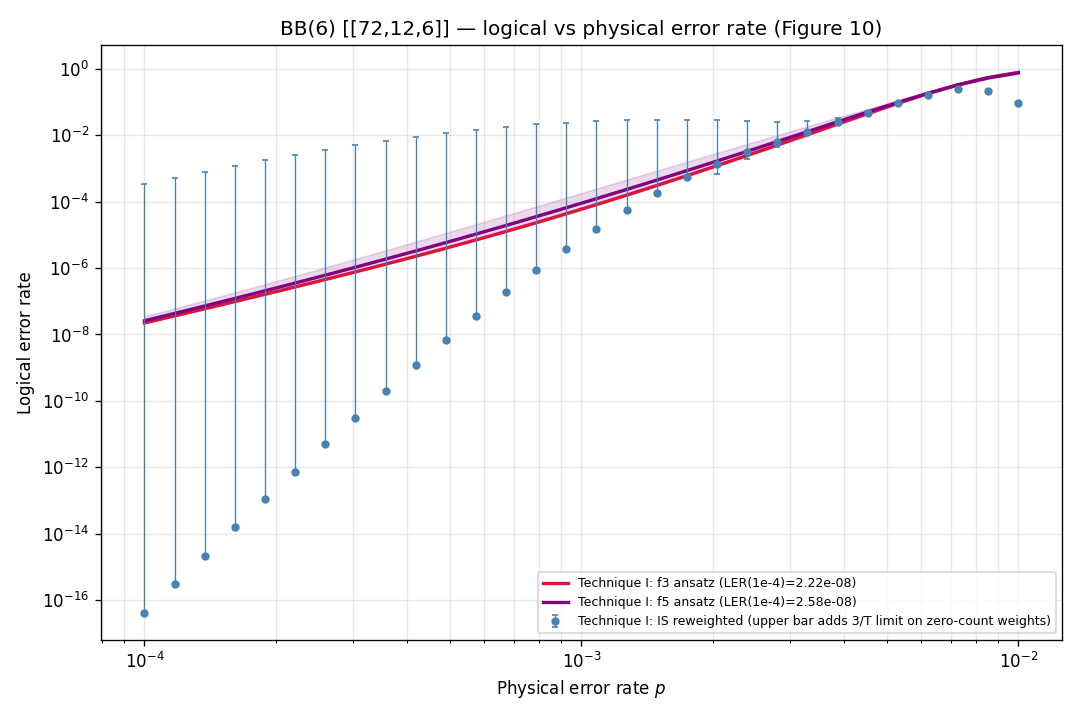
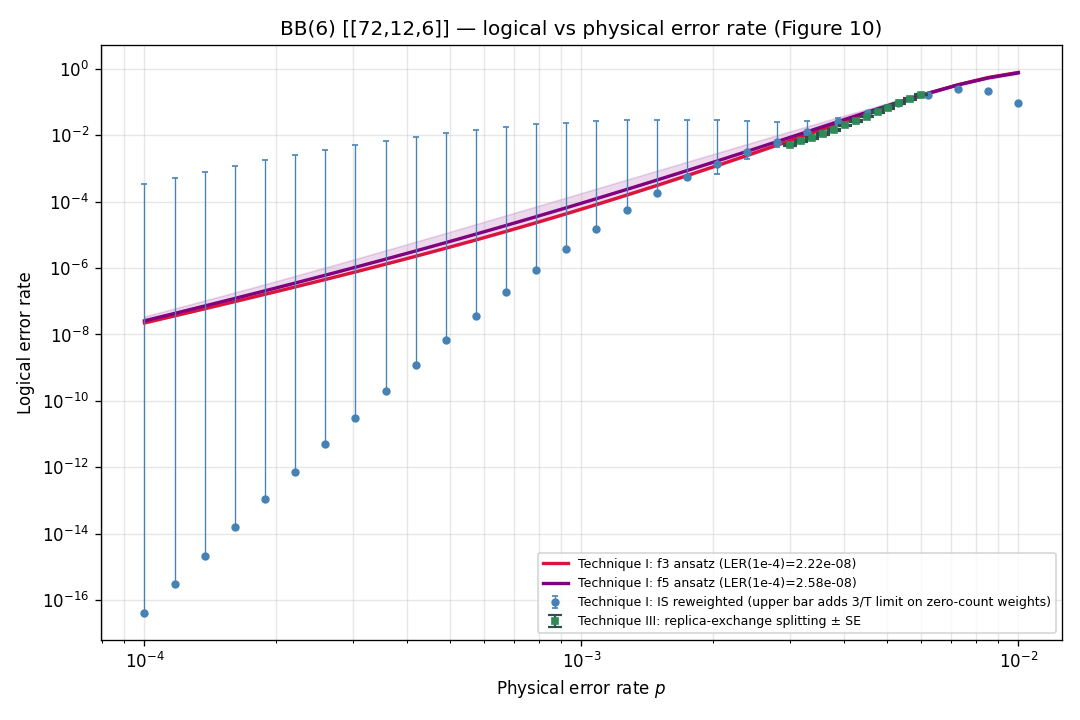
Add full-DEM Technique III (replica-exchange splitting); all 3 techniques agree
split_fulldem.py: the full-DEM analog of split_crosscheck.py -- runs the tempered
replica-exchange estimate on the full both-sector DEM near threshold (6e-3->3e-3, reduced
settings since full-DEM decodes are ~10-50x slower; this run took ~5h). Tempered-only (the
over/under bracket needs single-sector min-weight seeds and is just a mixing diagnostic).
Writes the {tempered, diagnostics} schema bb6_report consumes -- NOT the sweep's sequential
splitting (biased, wrong schema).

Result: the replica-exchange estimate tracks the exact-pinned full-DEM ansatz at ratio
0.73-1.07 across the near-threshold ladder; swap-accept 0.83-0.89, mean weight mixes
32.8->17.8 (heavier than single-sector's 22->13 since N is larger). So all three techniques
agree on the full DEM, mirroring the single-sector report.

bb6_report.py: splitting_comparison + fig_ler_vs_p now tolerate a splitting.json without the
over/under bracket (the band is optional). Notebook verified end-to-end (splitting cell renders).

diff --git a/notebooks/bb_code/split_fulldem.py b/notebooks/bb_code/split_fulldem.py
@@ -1,0 +1,47 @@
+"""Technique-III replica-exchange splitting on the FULL both-sector DEM (near-threshold cross-check).
+
+The full-DEM analog of split_crosscheck.py. Runs the **tempered** replica-exchange estimate only —
+the over/under sequential bracket needs single-sector min-weight seeds, and the tempered estimate is
+the accurate one anyway. Reduced settings: full-DEM decodes are ~10-50x slower than the single Z-sector,
+so this is a near-threshold (6e-3 -> 3e-3) run of ~tens of minutes rather than the deep single-sector run.
+
+Writes bb6_fulldem_curve/splitting.json {tempered, diagnostics}; bb6_report consumes it (the bracket
+band is optional and simply omitted here). replica_exchange_estimate batches decodes via the relay
+decoder's own threads (no process pool), so no __main__ guard is required, but we keep one anyway.
+"""
+import sys, json, pathlib, time
+import numpy as np
+_HERE = pathlib.Path(__file__).resolve().parent
+sys.path.insert(0, str(_HERE.parent.parent / "src"))
+from bb_code_sim import BB_72_12_6, build_bb_circuit, RelayBPDecoder
+from surface_code_sim import ErrorModel
+from splitting import replica_exchange_estimate
+
+P_REF, P_HIGH, P_LOW, NLEV = 0.003, 0.006, 0.003, 12
+
+
+def _dec():
+    return RelayBPDecoder(gamma0=0.125, pre_iter=80, num_sets=100, set_max_iter=60, stop_nconv=6)
+
+
+def main():
+    circuit = build_bb_circuit(BB_72_12_6, ErrorModel(p_phys=P_REF, p_meas=P_REF), rounds=6, idle_noise=True)
+    print("tempered (replica exchange, full both-sector DEM) ...", flush=True)
+    t0 = time.time()
+    temper, diag = replica_exchange_estimate(
+        circuit, _dec(), p_ref=P_REF, p_high=P_HIGH, p_low=P_LOW, n_levels=NLEV,
+        n_walkers=6, local_steps=6, n_sweeps=200, burn_in=60, anchor_shots=2000,
+        distance=6, seed=42, single_sector=False)        # full DEM (sector=None internally)
+    dt = time.time() - t0
+    pl = np.asarray(temper.p_ladder); tP = np.asarray(temper.P_logical); tSE = np.asarray(temper.P_logical_se)
+    out = {"tempered": {"p_ladder": pl.tolist(), "P_logical": tP.tolist(), "P_logical_se": tSE.tolist()},
+           "diagnostics": {"swap_accept": diag["swap_accept"], "mean_weight": diag["mean_weight"]}}
+    (_HERE / "bb6_fulldem_curve" / "splitting.json").write_text(json.dumps(out, indent=2))
+    print(f"  done ({dt:.0f}s): ladder {pl[0]:.2e}..{pl[-1]:.2e}, P {tP[0]:.2e}..{tP[-1]:.2e}", flush=True)
+    print(f"  swap-accept {min(diag['swap_accept']):.2f}..{max(diag['swap_accept']):.2f}; "
+          f"mean weight {diag['mean_weight'][0]:.1f} (hi-q) -> {diag['mean_weight'][-1]:.1f} (lo-q)", flush=True)
+    print("wrote bb6_fulldem_curve/splitting.json")
+
+
+if __name__ == "__main__":
+    main()

diff --git a/notebooks/bb_code/bb6_report.py b/notebooks/bb_code/bb6_report.py
@@ -170,7 +170,8 @@ def splitting_comparison(R):
         bar = "se"
     ans = np.asarray(logical_error_rate_from_ansatz(R["fits"]["f3"], list(tp)))
     ratio = tP / np.maximum(ans, 1e-300)
-    inb = np.array([r["inside_bracket"] for r in s["compare"]], dtype=bool)
+    # inside_bracket is optional (the over/under bracket is only run for some representations).
+    inb = np.array([r.get("inside_bracket", False) for r in s.get("compare", [])], dtype=bool)
     # "valid" = ansatz lies within the (honest) error bar, i.e. consistent within ~1 sigma.
     consistent = np.abs(tP - ans) <= np.maximum(tSE, 1e-300)
     return dict(p=tp, tP=tP, tSE=tSE, ansatz=ans, ratio=ratio, bar=bar,
@@ -210,9 +211,9 @@ def fig_ler_vs_p(R, ax=None):
         # sweeping it down to ~1e-18. Validity is de-aliased agreement with the ansatz.
         c = splitting_comparison(R)
         tp, tP, tSE, valid = c["p"], c["tP"], c["tSE"], c["valid"]
-        bp = np.array(s["bracket"]["p_ladder"]); blo = np.array(s["bracket"]["lo"]); bhi = np.array(s["bracket"]["hi"])
         inb = c["inside_bracket"]
-        if inb.any():
+        if s.get("bracket") and inb.any():     # bracket band only if the run produced one (optional)
+            bp = np.array(s["bracket"]["p_ladder"]); blo = np.array(s["bracket"]["lo"]); bhi = np.array(s["bracket"]["hi"])
             ax.fill_between(bp[inb], blo[inb], bhi[inb], color="seagreen", alpha=0.12,
                             label="Technique III: splitting bracket (near-threshold mixing check)")
         lbl = ("Technique III: replica-exchange (3-run mean ± run-to-run spread)"